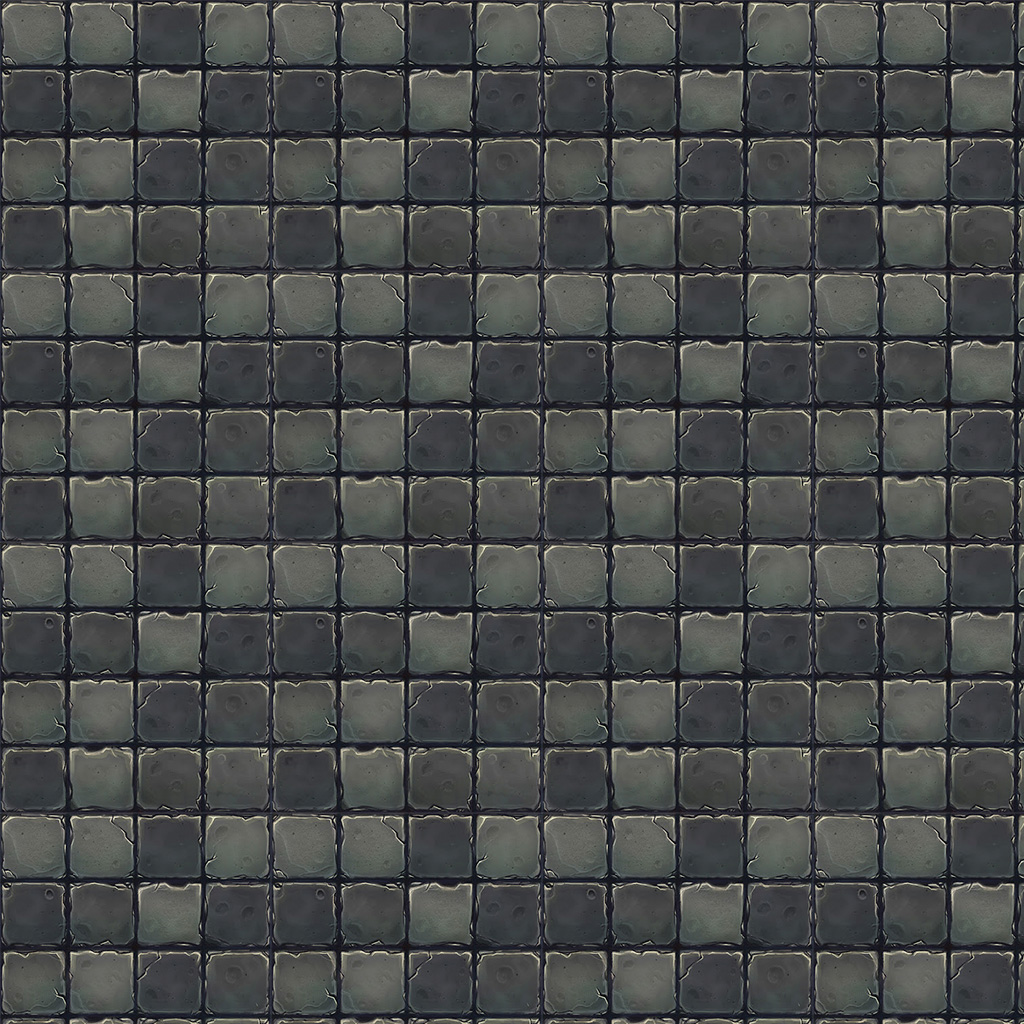
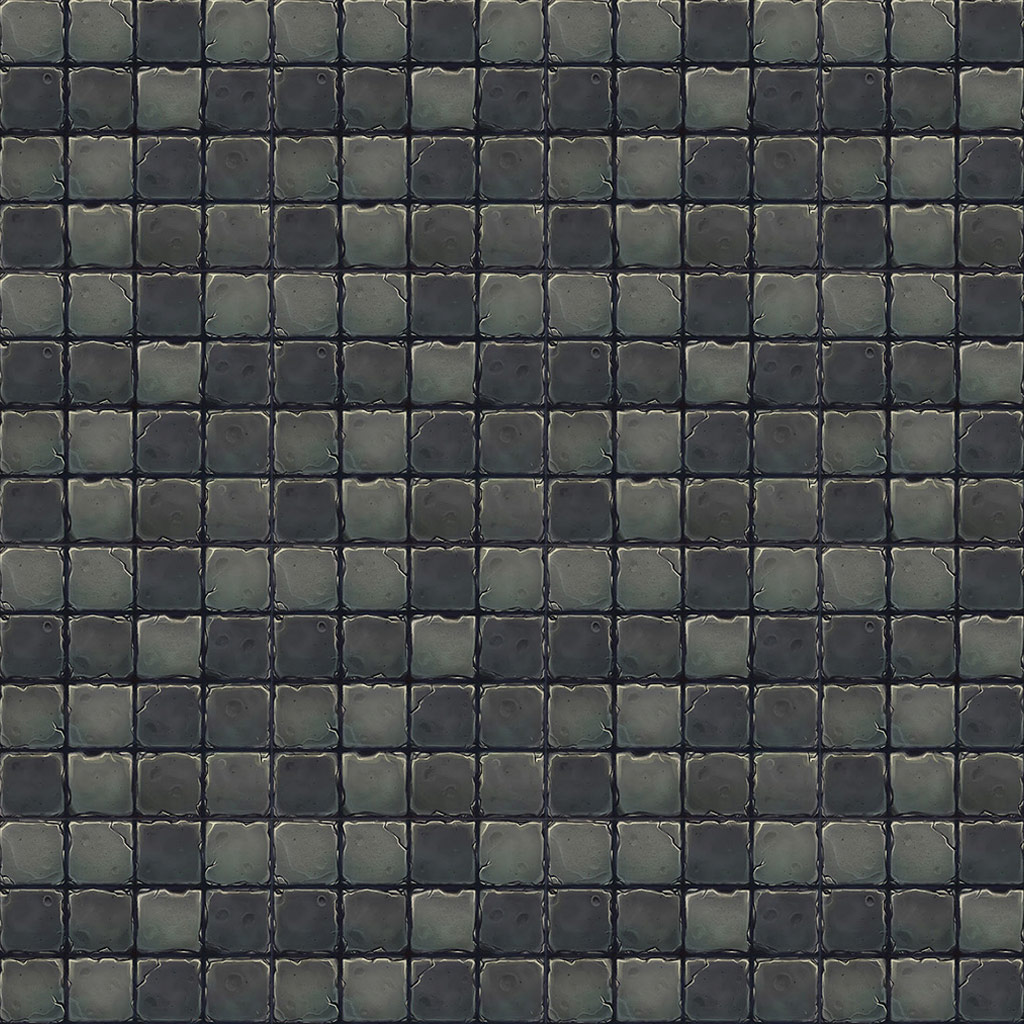
tiles fixes

Changed region(s): [[0.0, 0.0, 1.0, 1.0]]

diff --git a/src/UI/BG.tsx b/src/UI/BG.tsx
@@ -1,12 +1,39 @@
 import { useTexture } from '@react-three/drei'
 import { useThree } from '@react-three/fiber'
 import React from 'react'
+import { useMemo } from 'react'
 import { deg2rad } from '../utils/utils'
+import * as THREE from 'three'
 
 export function BG() {
   const texture = useTexture('/tiles.jpg')
 
   const { viewport } = useThree()
+
+  const textureRepeat = useMemo(() => {
+    console.log(viewport.width, viewport.height)
+    const repeatedTexture = texture.clone()
+    // Calculate the viewport and texture aspect ratios
+    const viewportAspectRatio = viewport.width / viewport.height
+    const textureAspectRatio = texture.image.width / texture.image.height
+
+    let xRepeat = 1
+    let yRepeat = 1
+
+    // Adjust the repeat values based on aspect ratio comparison
+    if (viewportAspectRatio > textureAspectRatio) {
+      xRepeat = viewportAspectRatio / textureAspectRatio
+    } else {
+      yRepeat = textureAspectRatio / viewportAspectRatio
+    }
+
+    repeatedTexture.wrapS = THREE.RepeatWrapping
+    repeatedTexture.wrapT = THREE.RepeatWrapping
+    repeatedTexture.repeat.set(xRepeat, yRepeat)
+    repeatedTexture.needsUpdate = true // Ensure the texture properties are updated
+
+    return repeatedTexture
+  }, [texture, viewport])
 
   return (
     <group>
@@ -14,9 +41,9 @@ export function BG() {
         <planeGeometry args={[viewport.width, viewport.width]} />
         <meshBasicMaterial color={'#1e1e1e'} toneMapped={false} opacity={0.25} transparent />
       </mesh>
-      <mesh rotation={[deg2rad(0), 0, 0]} position={[0, 0, -1]} scale={1.25}>
-        <planeGeometry args={[viewport.width, viewport.width]} />
-        <meshBasicMaterial map={texture} toneMapped={false} />
+      <mesh rotation={[deg2rad(0), 0, 0]} position={[0, 0, -1]}>
+        <planeGeometry args={[viewport.width, viewport.height]} />
+        <meshBasicMaterial map={textureRepeat} toneMapped={false} />
       </mesh>
     </group>
   )

diff --git a/src/entities/effects/InstaceEffectFireMesh.tsx b/src/entities/effects/InstaceEffectFireMesh.tsx
@@ -10,6 +10,9 @@ import { CoreState, useGlobalStore } from '../../state/globalState'
 
 extend({ InstancedUniformsMesh })
 
+// handle scaling
+const geometry = new THREE.PlaneGeometry(1, 1)
+
 export const InstancedEffectsFireMesh = ({ texture, textureData }: { texture: THREE.Texture; textureData: any }) => {
   // the general "discovered" tiles
 
@@ -185,17 +188,8 @@ export const InstancedEffectsFireMesh = ({ texture, textureData }: { texture: TH
     }
   })
 
-  // handle scaling
-  const geometry = useMemo(() => new THREE.PlaneGeometry(1, 1), [])
-
   return (
     <>
-      {/* {hexTexture && (
-        <mesh geometry={geometry} position={[0, 2, 0]}>
-          <meshStandardMaterial map={hexTexture} transparent={true} />
-        </mesh>
-      )} */}
-
       <instancedUniformsMesh ref={meshRef} args={[geometry, null, 2]}>
         {/* awesome working texture */}
         <EffectMaterial attach="material" map={hexTexture} textureData={null} />

diff --git a/src/App.tsx b/src/App.tsx
@@ -191,7 +191,7 @@ export function Gameplay() {
   const mode = useGlobalStore((state: CoreState) => state.mode)
   const gameOver = useGlobalStore((state: CoreState) => state.gameOver)
   const setMaxScore = useGlobalStore((state: CoreState) => state.setCurrentMaxScore)
-  const { active, progress, errors, item, loaded, total } = useProgress()
+  const { loaded } = useProgress()
   //
 
   // Function to change size
@@ -214,13 +214,18 @@ export function Gameplay() {
         AudioManager.getInstance().playTrack('main_bg', true)
       }, 4500)
     }
-    AudioManager.getInstance().playTrack('creepyBell')
 
     return () => {
       if (timeOut1) window.clearTimeout(timeOut1)
       if (timeOut2) window.clearTimeout(timeOut2)
     }
   }, [initFinished, loaded])
+
+  useEffect(() => {
+    if (initFinished) {
+      AudioManager.getInstance().playTrack('creepyBell')
+    }
+  }, [initFinished])
 
   useEffect(() => {
     if (gameOver) {

diff --git a/src/entities/effects/EffectMaterial.tsx b/src/entities/effects/EffectMaterial.tsx
@@ -1,4 +1,4 @@
-import { Canvas, extend, useFrame, useThree } from '@react-three/fiber'
+import { useFrame, useThree } from '@react-three/fiber'
 import React, { useEffect, useMemo, useRef } from 'react'
 import * as THREE from 'three'
 
@@ -8,7 +8,7 @@ export function EffectMaterial({
   rows,
   columns
 }: {
-  map: THREE.Texture
+  map: THREE.Texture | null
   textureData: any
   rows?: number
   columns?: number
@@ -118,7 +118,7 @@ export function EffectMaterial({
   )
 
   useEffect(() => {
-    if (map && textureData !== undefined) {
+    if (map && textureData !== undefined && matRef.current) {
       map.minFilter = THREE.LinearFilter
       map.magFilter = THREE.LinearFilter
       map.wrapS = THREE.ClampToEdgeWrapping
